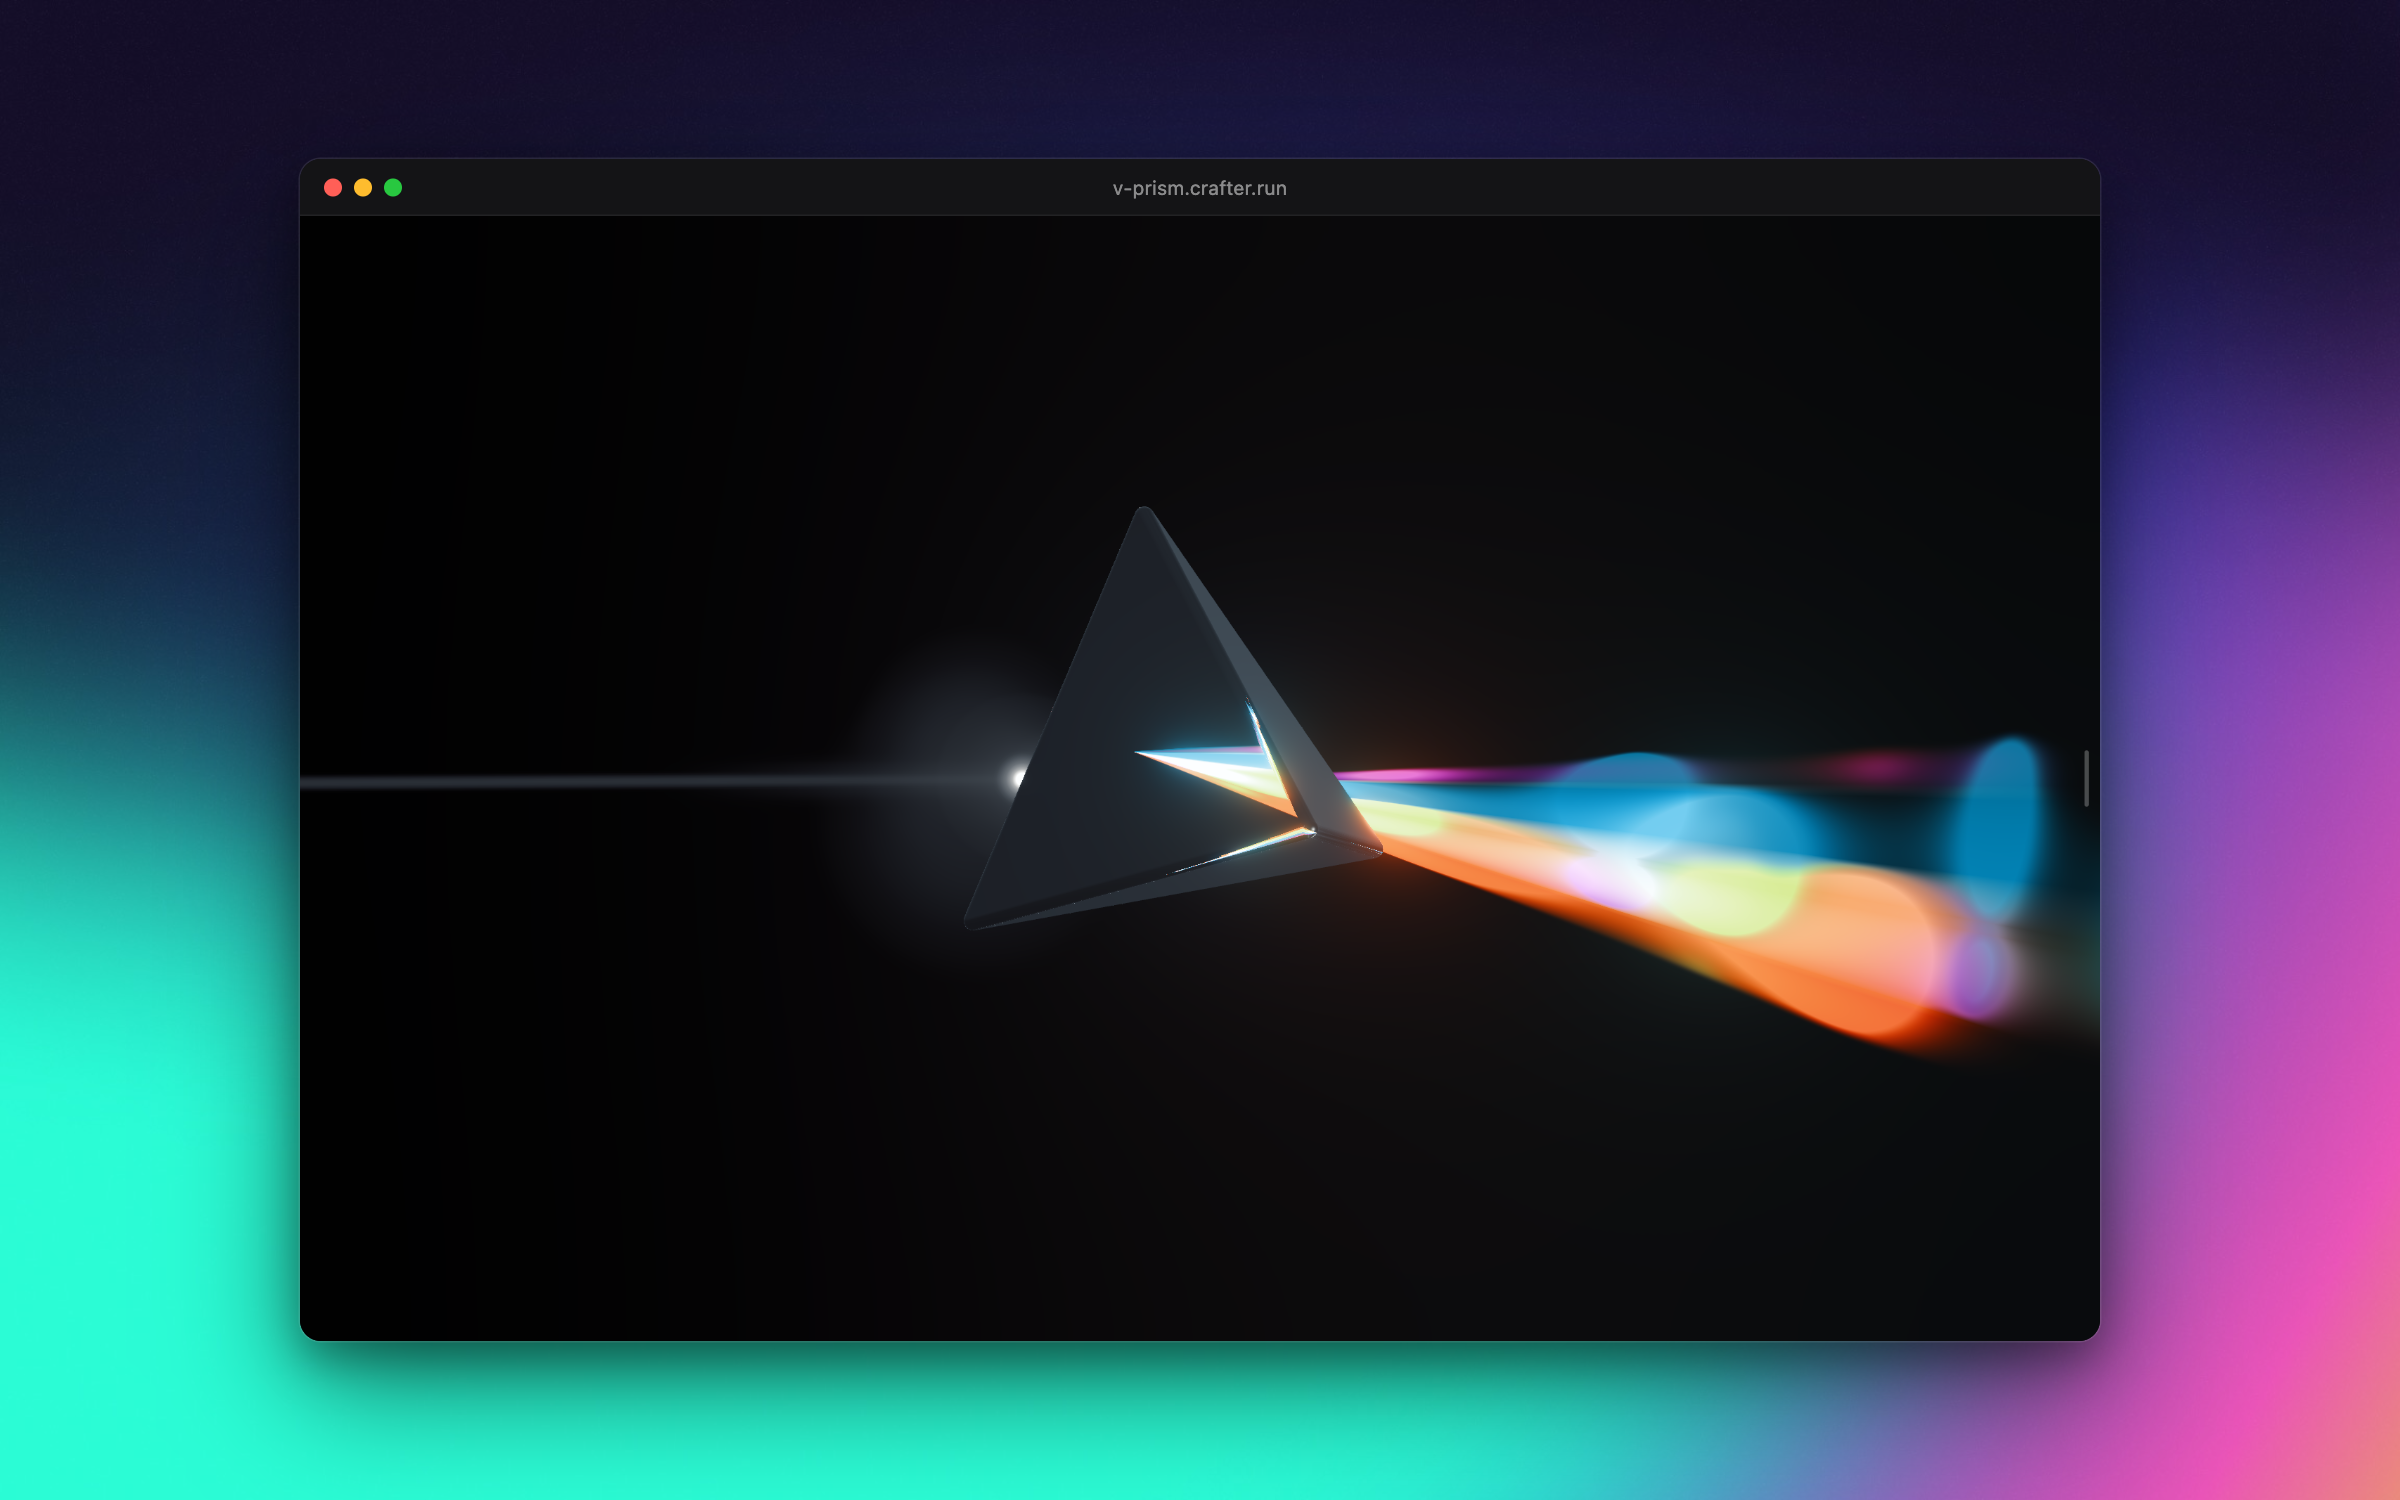
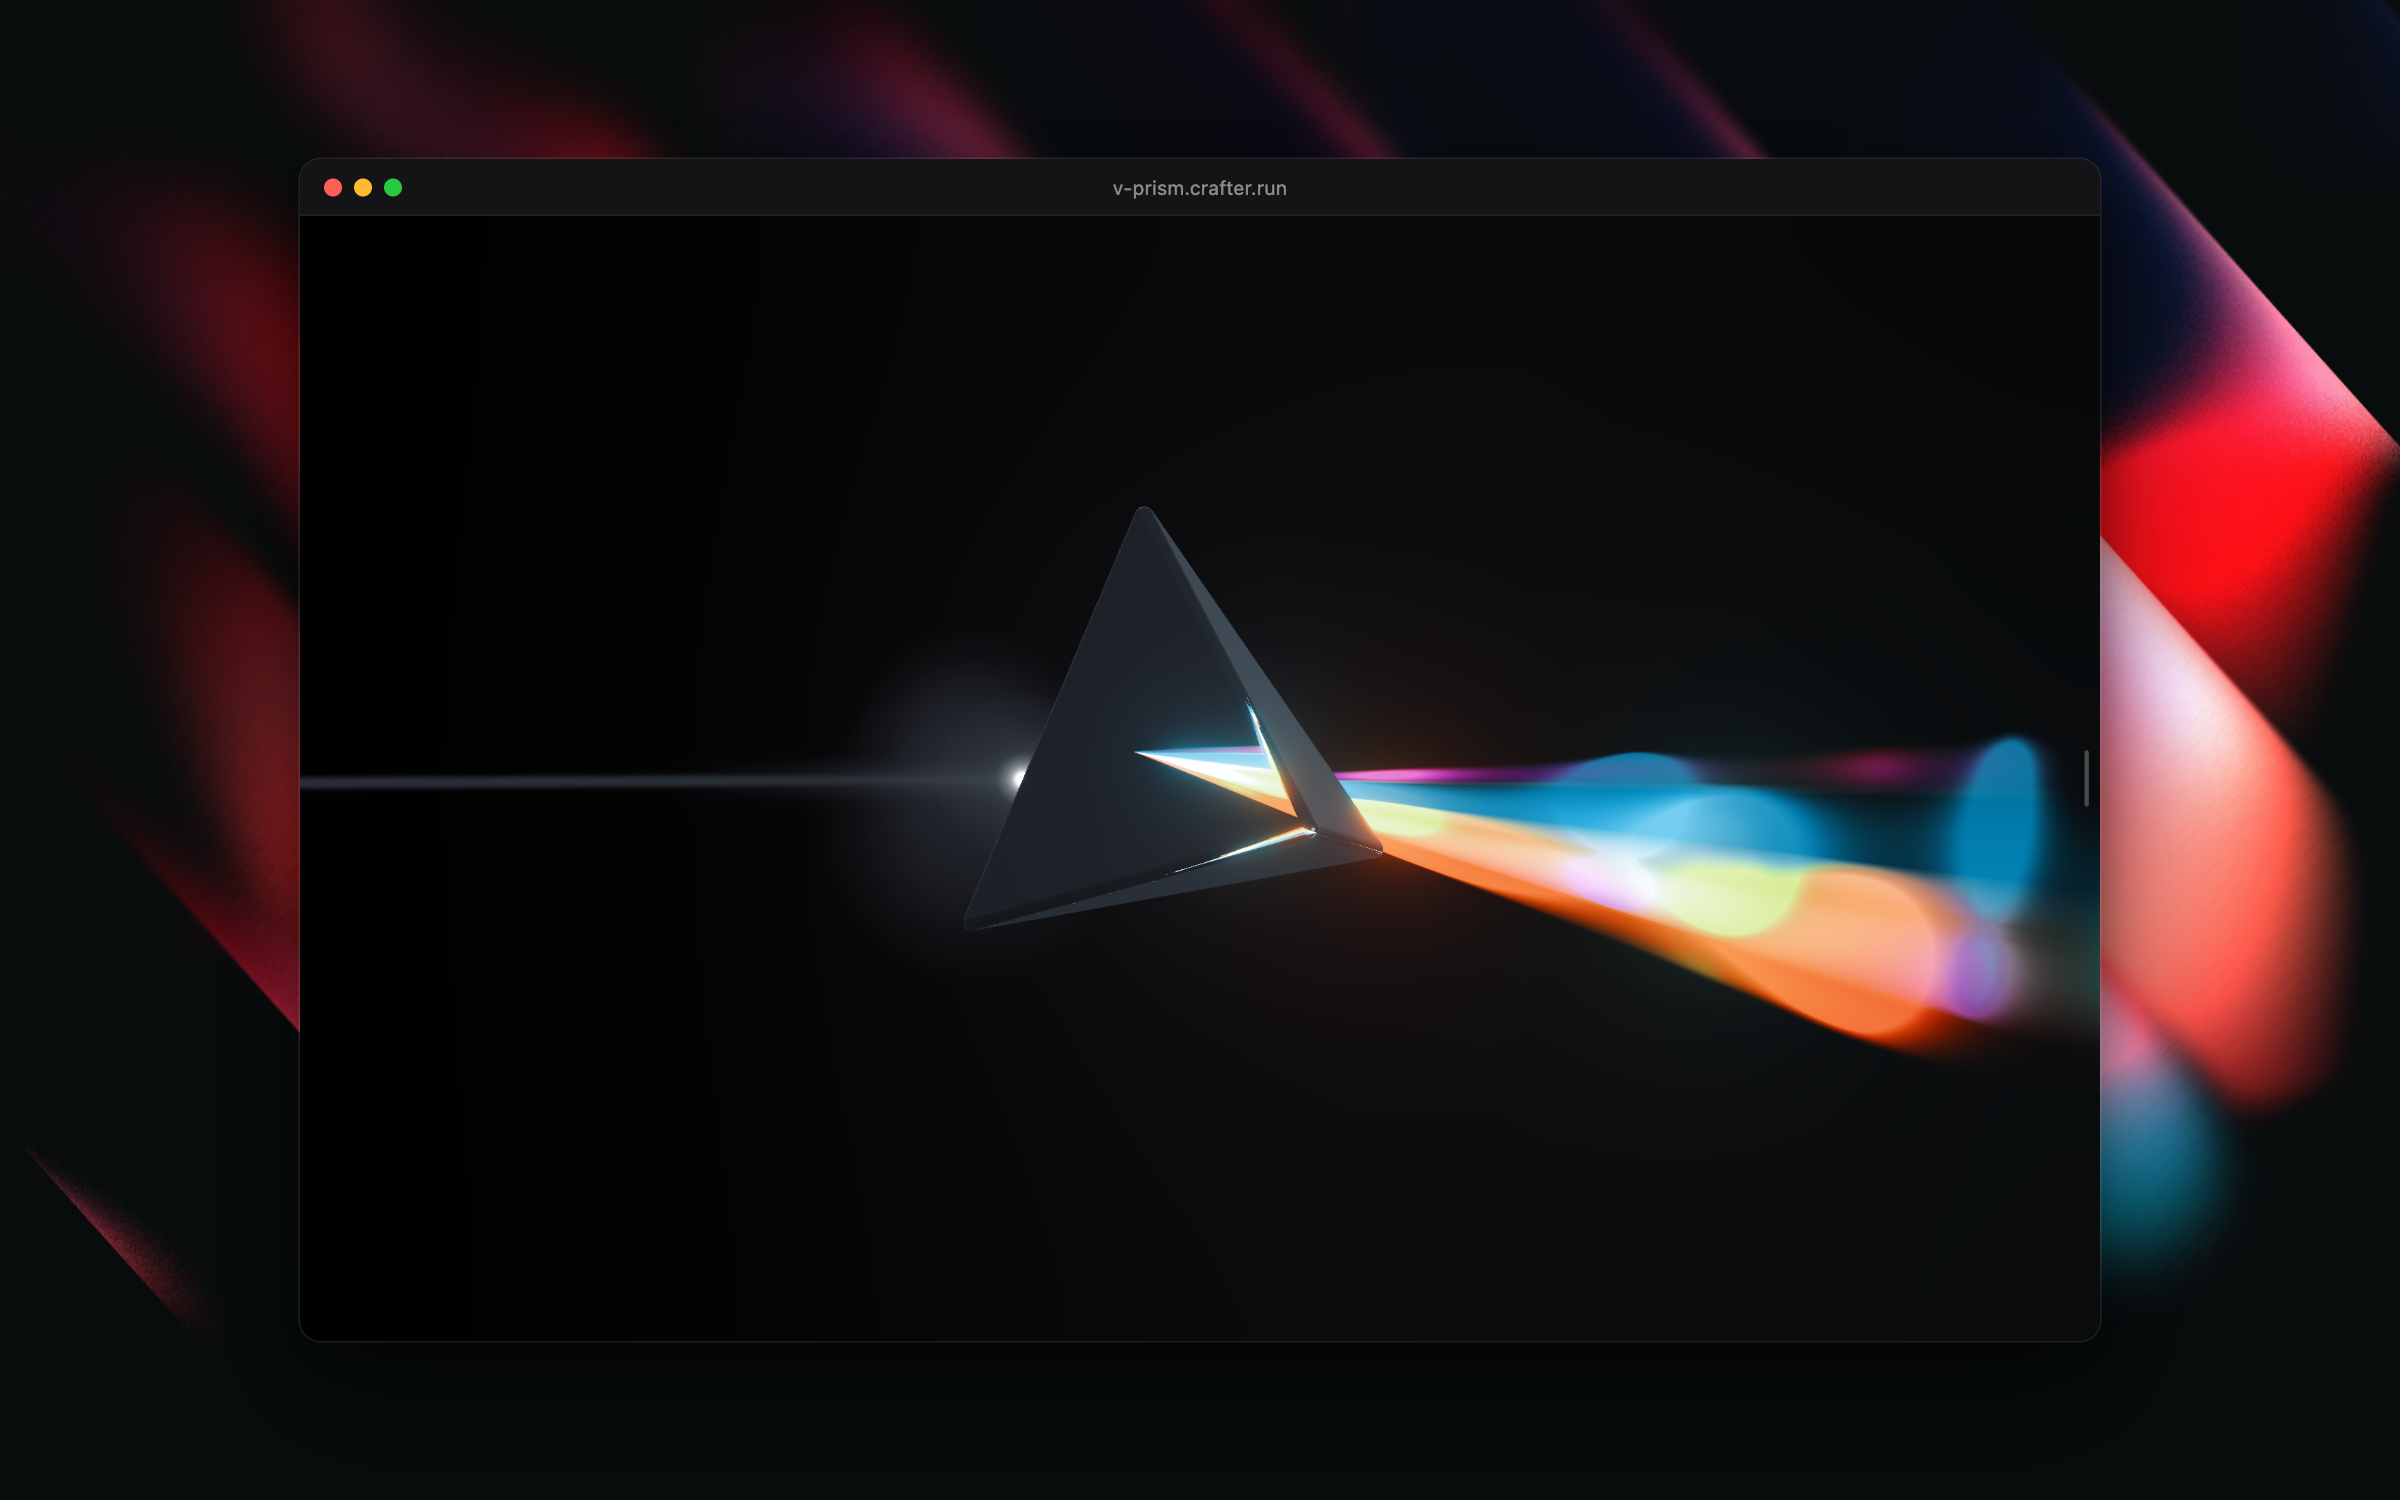
Use Raycast's Red Distortion wallpaper for the screenshot

diff --git a/README.md b/README.md
@@ -98,4 +98,4 @@ agent-browser --session prism --webgpu errors
 
 The pmndrs [`nextjs-prism`](https://github.com/pmndrs/examples/tree/main/examples/nextjs-prism)
 example (MIT) for the concept and the film LUT, AlanZucconi's spectral rainbow and JuliaPoo's
-iridescence for the rainbow shader. The screenshot sits on Raycast's Ray of Lights wallpaper.
+iridescence for the rainbow shader. The screenshot sits on Raycast's Red Distortion wallpaper.
